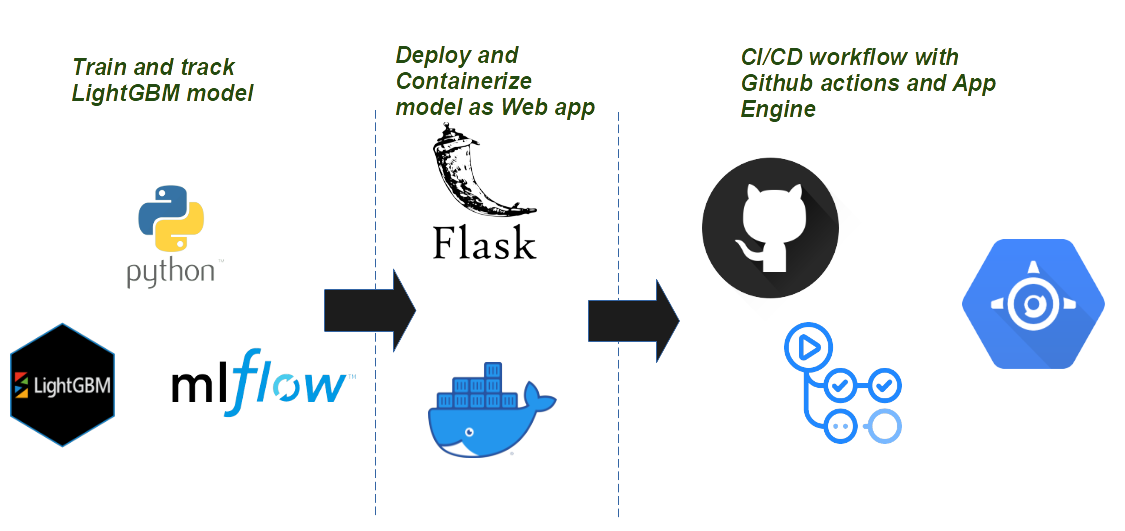
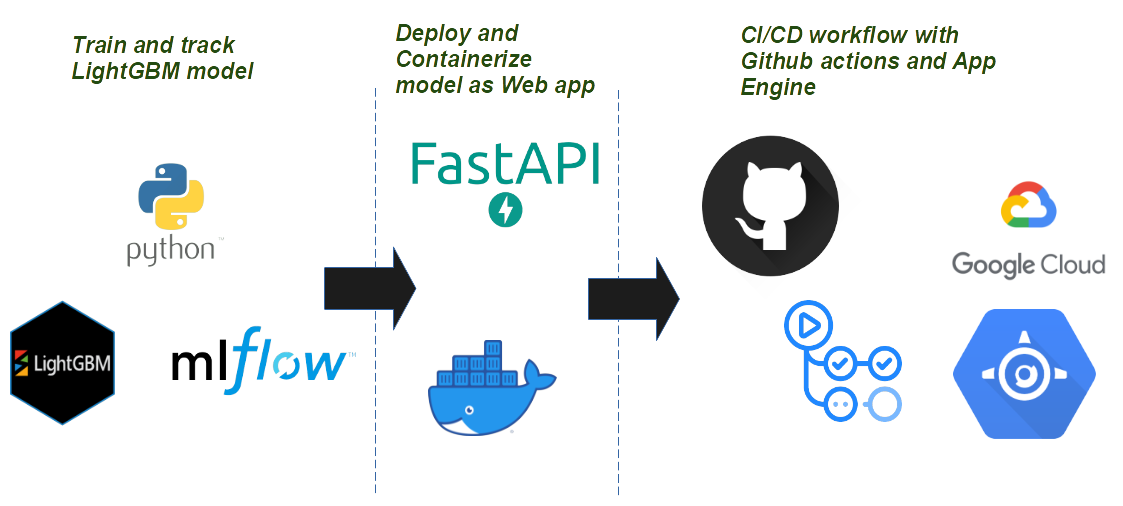
update readme

diff --git a/README.md b/README.md
@@ -1,4 +1,4 @@
-# MLOps with MLflow, App Engine and Github Actions
+# MLOps with MLflow, FastApi, App Engine and Github Actions
 [![Deploy to App Engine](https://github.com/amine-akrout/mental_health_risk/actions/workflows/app_engine.yml/badge.svg)](https://github.com/amine-akrout/mental_health_risk/actions/workflows/app_engine.yml)
 ## Data Information
 Data used in the project can be found on [UCI Machine Learning Repository](https://archive.ics.uci.edu/ml/datasets/Maternal+Health+Risk+Data+Set)
